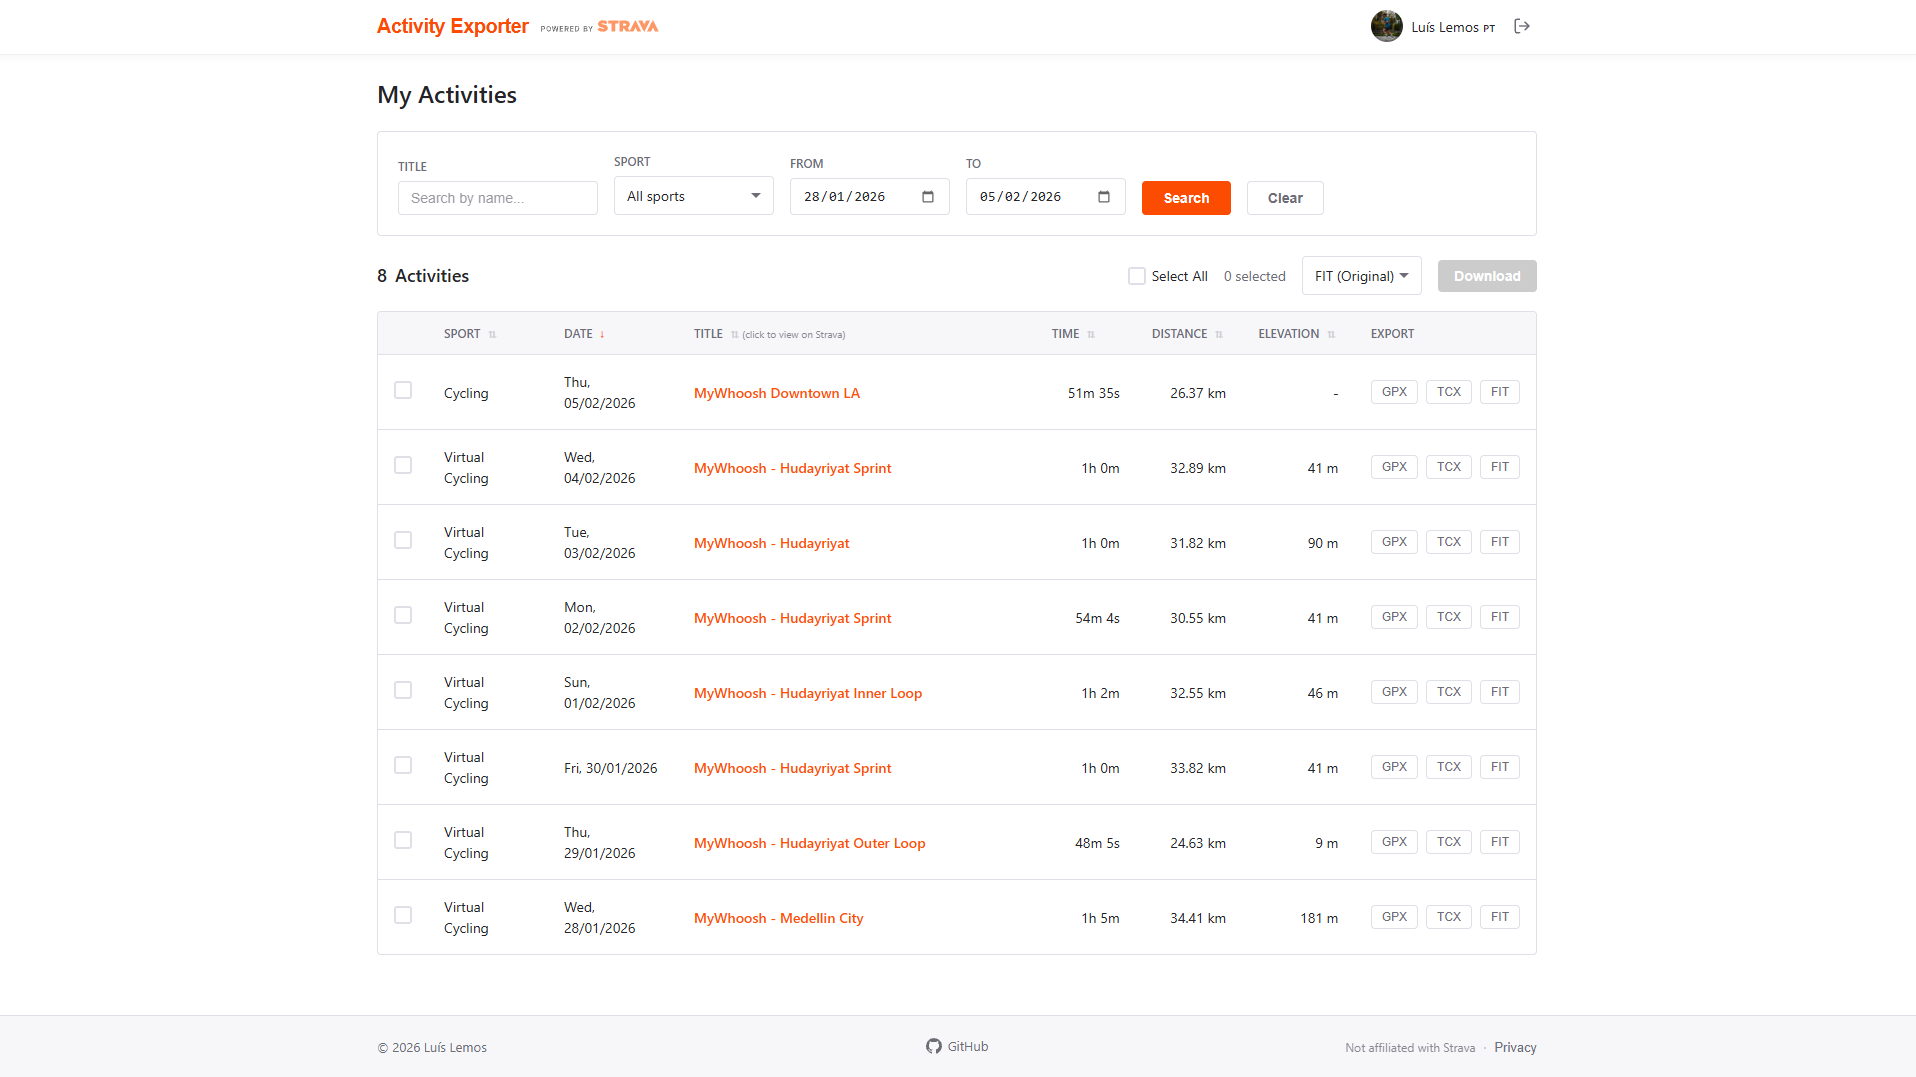
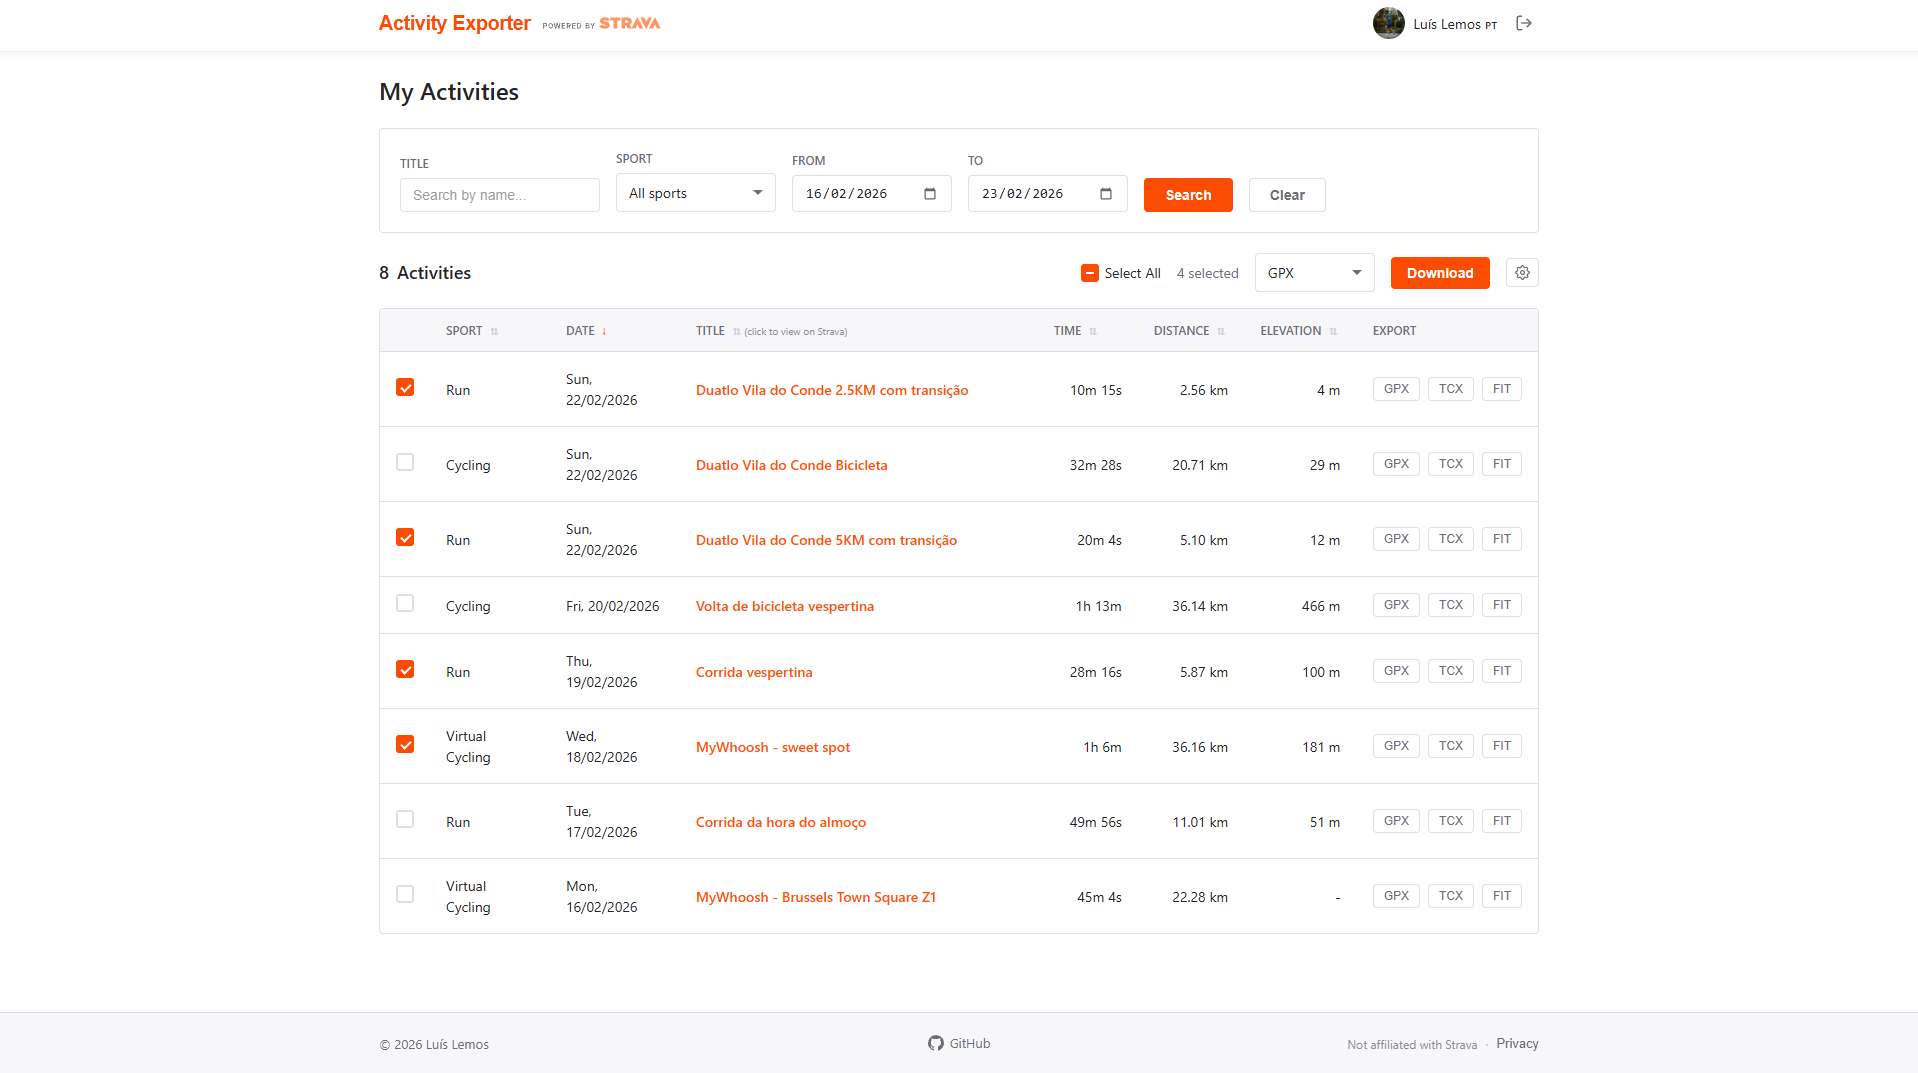
Readme Update

diff --git a/README.md b/README.md
@@ -6,6 +6,8 @@ A web application to export your Strava activities to **GPX**, **TCX**, or **FIT
 
 ![App](public/img/app.png)
 
+![App2](public/img/app2.png)
+
 ---
 
 ## 📱 Features
@@ -20,6 +22,8 @@ A web application to export your Strava activities to **GPX**, **TCX**, or **FIT
    Download multiple activities at once as a ZIP file.
 - 🎯 **Smart Filters:**
    Filter by sport type, date range, or activity name.
+- 🏷 **Custom Filename Template:**
+   Define your own naming pattern using variables like `{date}`, `{name}`, `{type}`, and `{id}`, with selectable date formats.
 
 ---
 
@@ -93,6 +97,27 @@ server.js         → Express server with OAuth handling
 | **FIT** | Original file from your device |
 | **GPX** | GPS track with coordinates and elevation |
 | **TCX** | Training data with heart rate, cadence, and power |
+
+---
+
+## 🏷 Custom Filename Template
+
+Click the ⚙ button next to Download to configure how exported files are named.
+
+**Available variables:**
+
+| Variable | Description | Example |
+|----------|-------------|---------|
+| `{date}` | Activity date | `2026-02-23` |
+| `{name}` | Activity name | `Morning_Run` |
+| `{type}` | Sport type | `Run` |
+| `{id}` | Strava activity ID | `12345678` |
+
+**Date formats:** `YYYY-MM-DD`, `YYYYMMDD`, `DD-MM-YYYY`, `MM-DD-YYYY`
+
+**Default template:** `{date}_{name}` → `2026-02-23_Morning_Run.gpx`
+
+> **Note:** Custom filenames apply to GPX and TCX exports only. FIT (original) files are downloaded directly from Strava and cannot be renamed.
 
 ---
 
